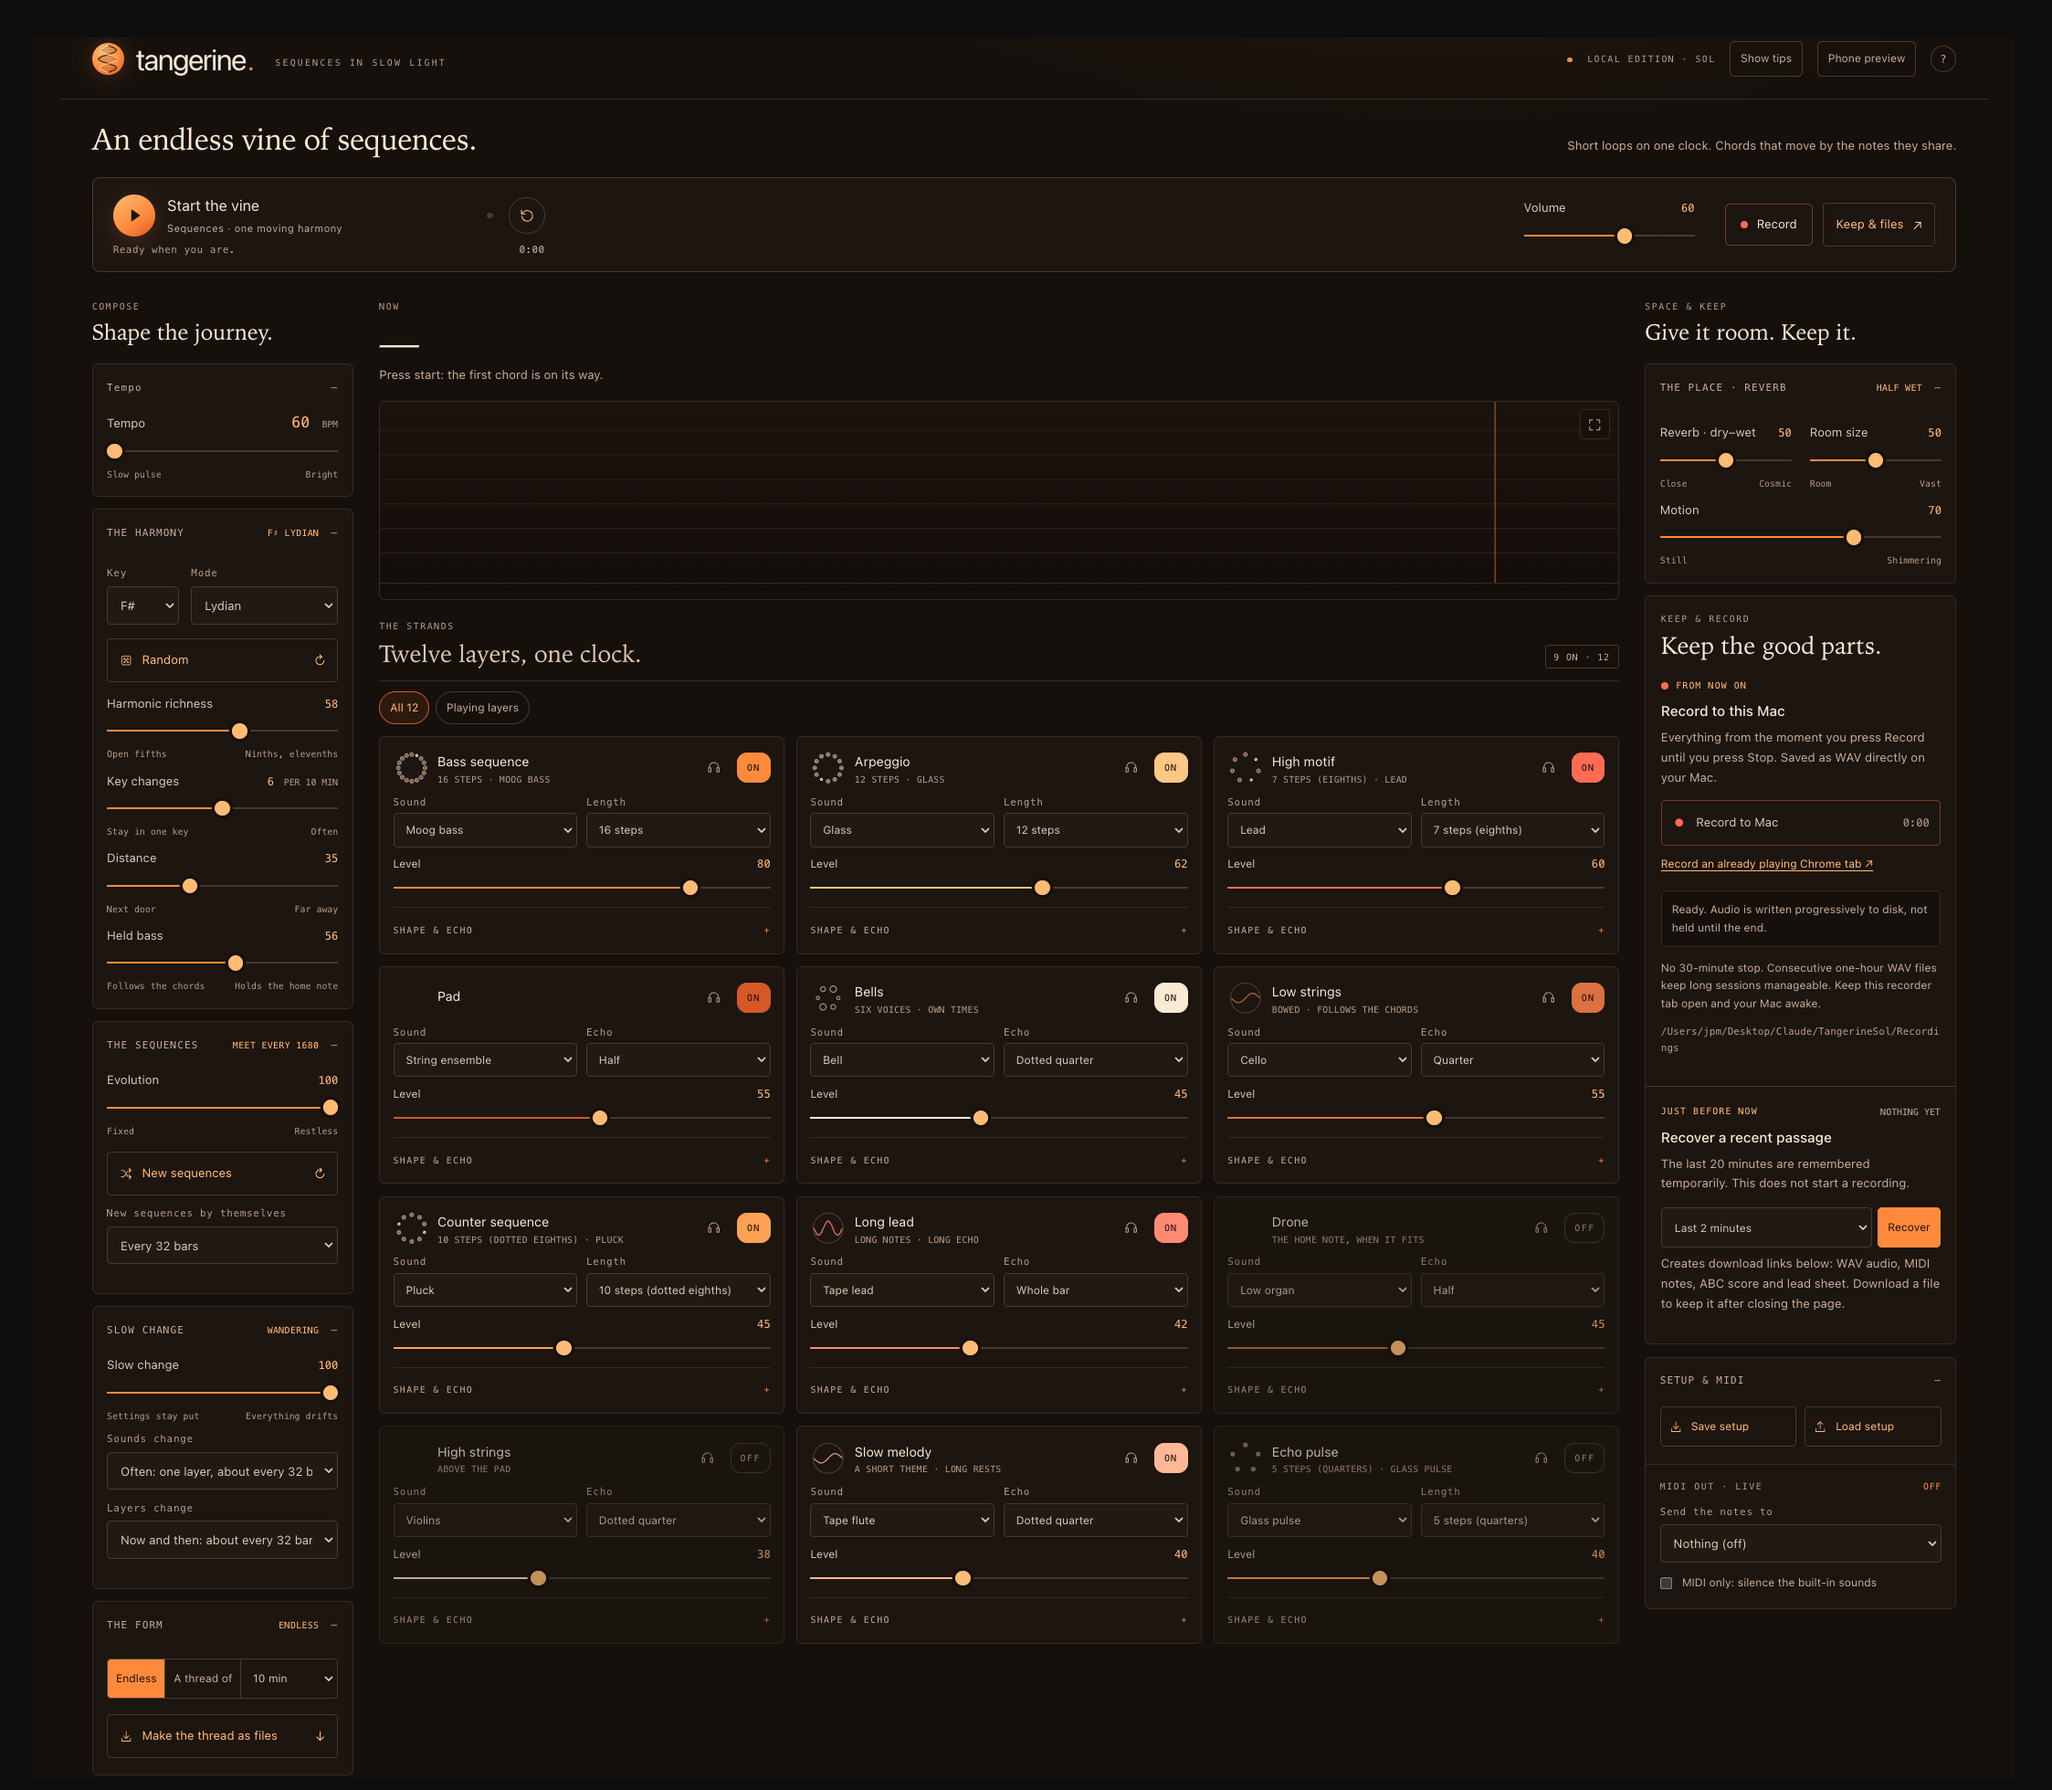
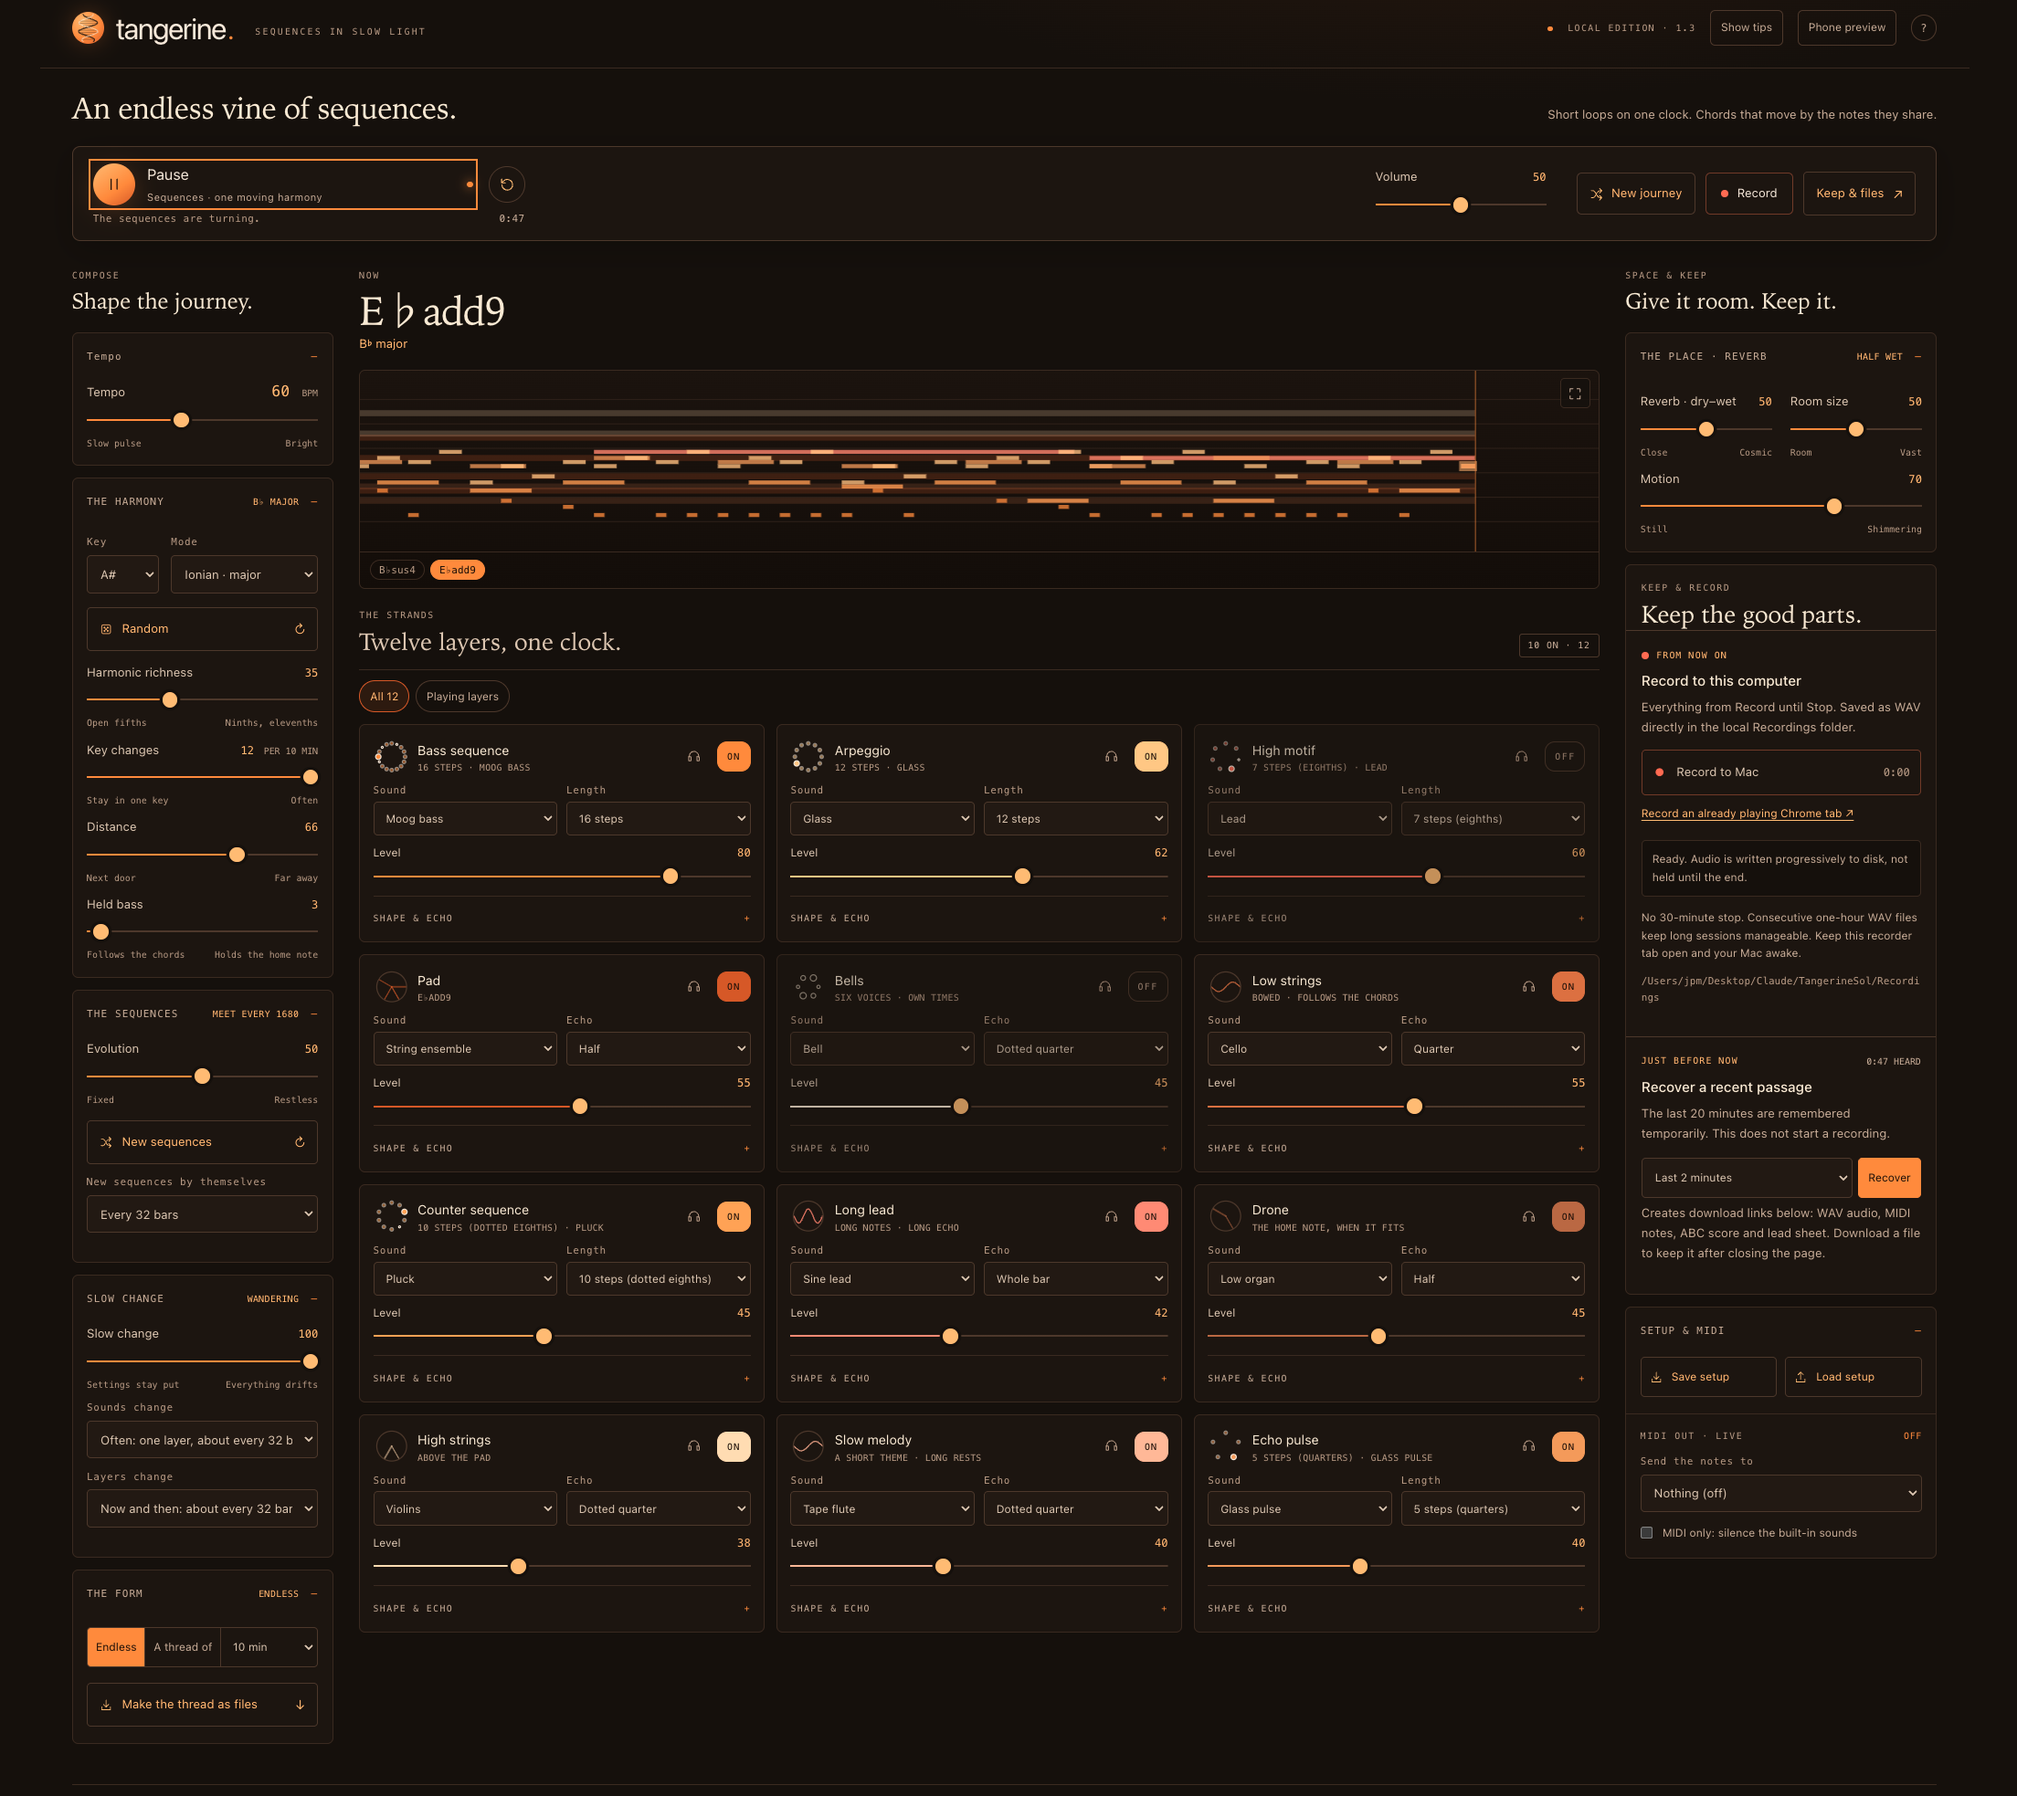
Update 1.3 screenshot with active score and top-bar New journey

diff --git a/README.md b/README.md
@@ -6,7 +6,7 @@
 
 ![Tangerine 1.3: composition on the left, the animated score and layers in the centre, space and recording on the right](docs/tangerine.png)
 
-*Desktop layout shown in the local edition; New journey now sits next to playback.*
+*The local edition playing, with New journey in the top bar.*
 
 *Loopra’s electric sibling. Every sound is synthesized in the browser. Free and open source, with an English interface.*
 
